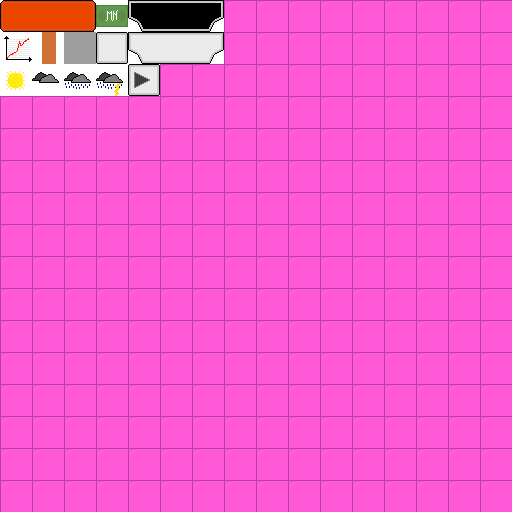
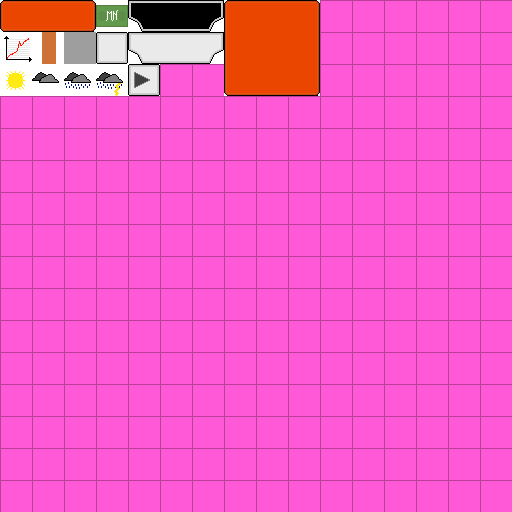
UI almost finished

Changed region(s): [[0.4375, 0.0, 0.625, 0.1875]]

diff --git a/src/com/fightthetoast/superstore/screen/window/IngameWindow.java b/src/com/fightthetoast/superstore/screen/window/IngameWindow.java
@@ -29,4 +29,15 @@ public abstract class IngameWindow {
 		}
 	}
 	
+	public void drawGUIBox()
+	{
+		for(int x = 0; x < Game.DEFAULT_WIDTH-400/32; x++)
+		{
+			for(int y = 0; y < Game.DEFAULT_HEIGHT-132/32; y++)
+			{
+				Resources.sheetUI.render(new vec2f(x*32, y*32),new vec2f(8,1));
+			}
+		}
+	}
+	
 }

diff --git a/src/com/fightthetoast/superstore/screen/window/IGWIsleEditor.java b/src/com/fightthetoast/superstore/screen/window/IGWIsleEditor.java
@@ -11,6 +11,7 @@ public class IGWIsleEditor extends IngameWindow{
 	@Override
 	public void render() {
 		drawWhiteBackground();
+		drawGUIBox();
 	}
 
 }

diff --git a/src/com/fightthetoast/superstore/product/Product.java b/src/com/fightthetoast/superstore/product/Product.java
@@ -4,4 +4,5 @@ public class Product {
 
 	
 	private String name = "Unnamed Product";
+	private int incentive = 0; //% chance the item will be bought
 }

diff --git a/src/com/fightthetoast/superstore/screen/window/IGWStoreOverview.java b/src/com/fightthetoast/superstore/screen/window/IGWStoreOverview.java
@@ -15,7 +15,7 @@ public class IGWStoreOverview extends IngameWindow{
 		super(sig);
 	}
 
-	@Override//
+	@Override
 	public void render() {
 		
 		
